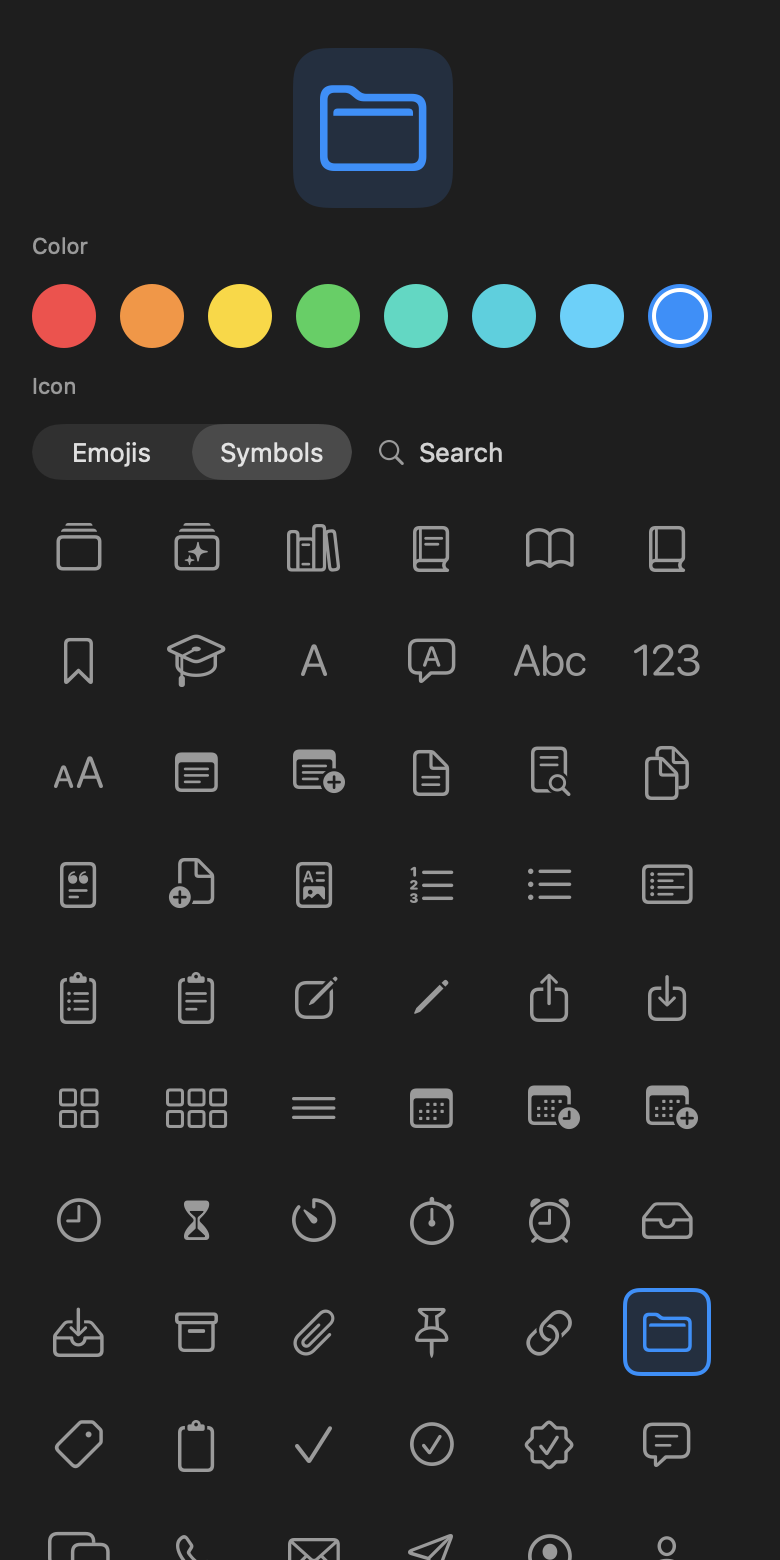
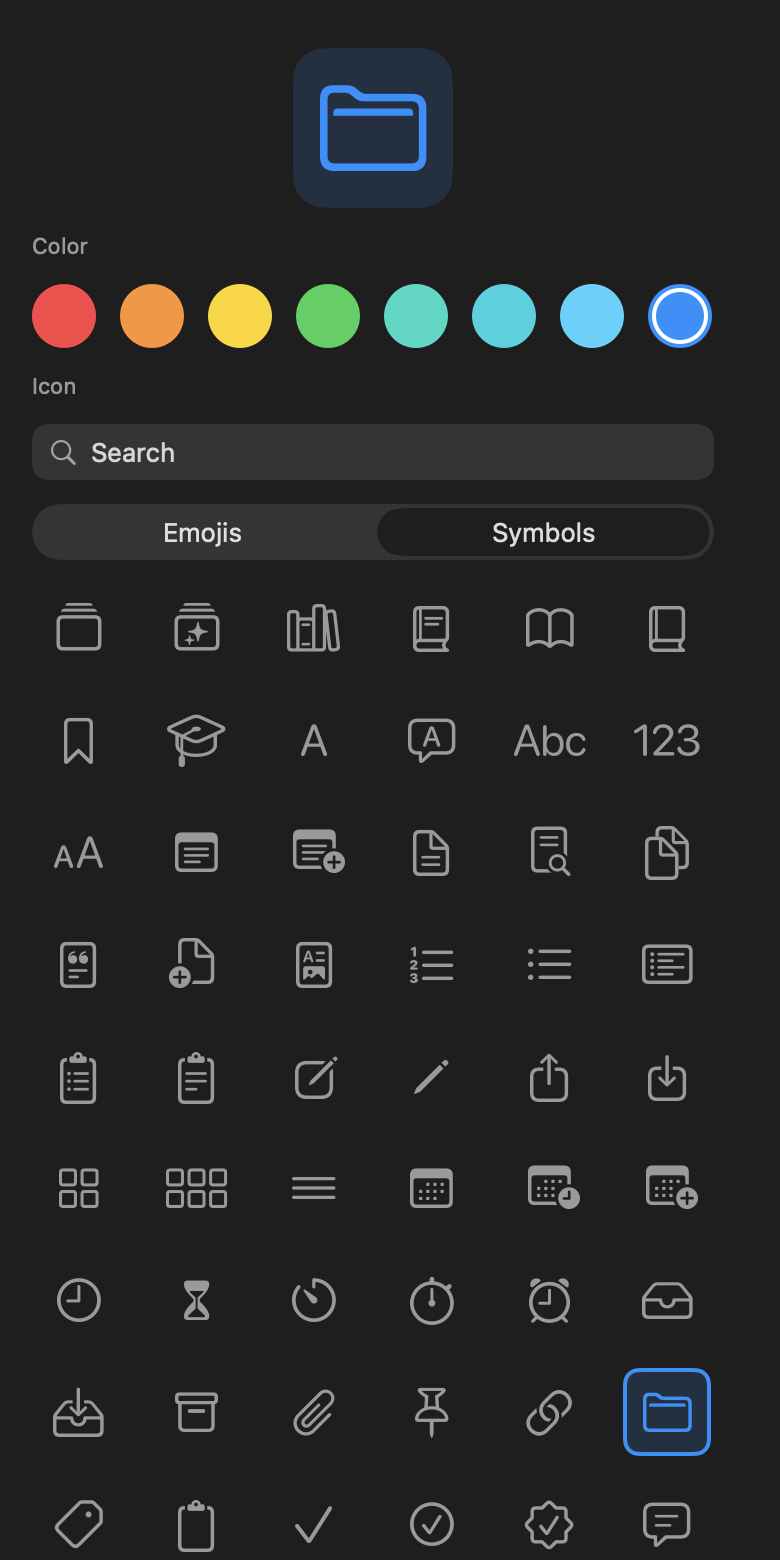
feat: present search as a scope bar
Search is primary. Emojis and Symbols sit under it as full-width
scopes, like Mail and Finder.

diff --git a/Sources/IconPickerKit/IconPickerView.swift b/Sources/IconPickerKit/IconPickerView.swift
@@ -130,23 +130,19 @@ public struct IconPickerView: View {
                 .foregroundStyle(.secondary)
                 .accessibilityAddTraits(.isHeader)
 
-            HStack(spacing: IconPickerLayout.stackSpacing) {
-                Picker(self.labels.icon, selection: self.$mode) {
-                    Text(self.labels.emojis).tag(Mode.emojis)
-                    Text(self.labels.symbols).tag(Mode.symbols)
-                }
-                .pickerStyle(.segmented)
-                .labelsHidden()
-                .controlSize(.large)
-                .fixedSize()
-                .frame(height: IconPickerLayout.modeHeight)
+            IconPickerSearchField(
+                text: self.$query,
+                debounce: self.$debounce,
+                origin: self.origin,
+                prompt: self.labels.search)
 
-                IconPickerSearchField(
-                    text: self.$query,
-                    debounce: self.$debounce,
-                    origin: self.origin,
-                    prompt: self.labels.search)
+            HStack(spacing: 4) {
+                self.scope(.emojis, self.labels.emojis)
+                self.scope(.symbols, self.labels.symbols)
             }
+            .padding(2)
+            .frame(height: IconPickerLayout.modeHeight)
+            .background(.quaternary, in: Capsule())
 
             if self.mode == .emojis {
                 self.emojiGrid
@@ -155,6 +151,23 @@ public struct IconPickerView: View {
             }
         }
         .padding(.horizontal, IconPickerLayout.horizontalInset)
+    }
+
+    private func scope(_ mode: Mode, _ title: String) -> some View {
+        let isSelected = self.mode == mode
+        return Button {
+            self.mode = mode
+        } label: {
+            Text(title)
+                .frame(maxWidth: .infinity, maxHeight: .infinity)
+                .background {
+                    if isSelected {
+                        Capsule().fill(.background)
+                    }
+                }
+        }
+        .buttonStyle(.plain)
+        .accessibilityAddTraits(isSelected ? [.isButton, .isSelected] : .isButton)
     }
 
     private var emojiGrid: some View {

diff --git a/Sources/IconPickerKit/IconPickerSearch.swift b/Sources/IconPickerKit/IconPickerSearch.swift
@@ -30,7 +30,10 @@ struct IconPickerSearchField: View {
                 .accessibilityLabel("Clear")
             }
         }
+        .padding(.horizontal, 8)
+        .frame(maxWidth: .infinity)
         .frame(height: IconPickerLayout.searchHeight)
+        .background(.quaternary, in: RoundedRectangle(cornerRadius: 8, style: .continuous))
         .onChange(of: self.text) { _, new in
             self.debounce.push(new, at: ContinuousClock.now - self.origin)
         }

diff --git a/CHANGELOG.md b/CHANGELOG.md
@@ -17,7 +17,7 @@ All notable changes to IconPickerKit are recorded here. The format follows
 
 ### Changed
 
-- Search sits on the same row as the mode control, with no fill, so it does not read as a second bar.
+- Search is the primary control; Emojis / Symbols sit under it as scopes.
 - The emoji/symbol control hides its extra macOS picker title. The section header already names it.
 
 ## [1.1.0] - 2026-08-18
